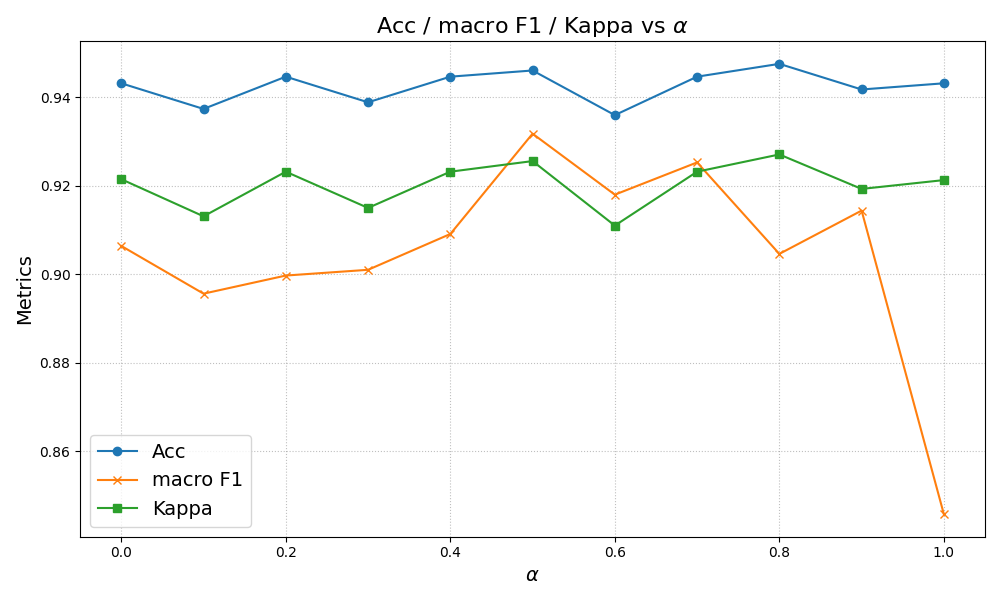
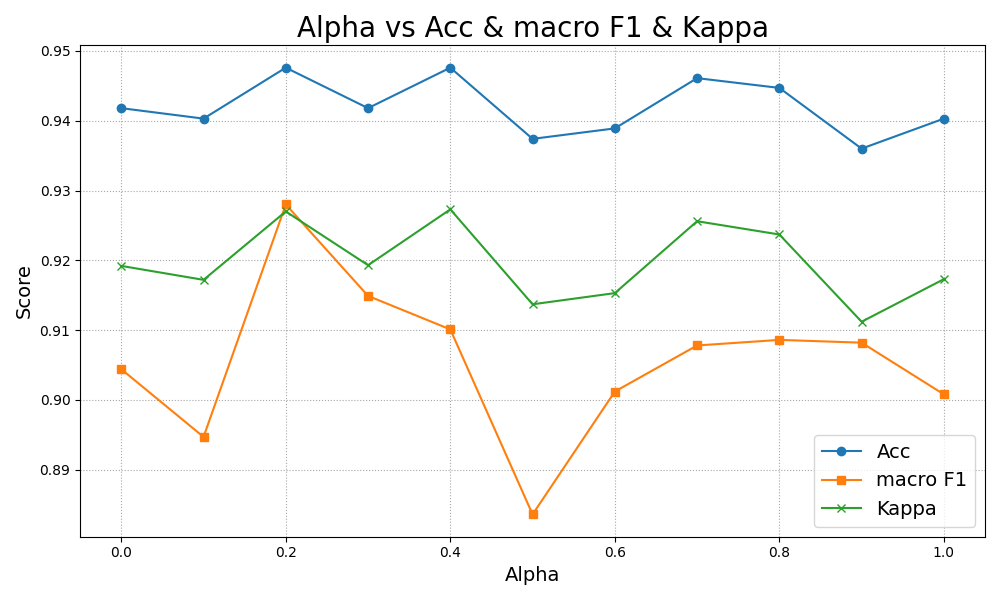
alphaの可視化

diff --git a/Utils/args.py b/Utils/args.py
@@ -10,7 +10,7 @@ def get_args():
     parser.add_argument('--lr',default=1e-4,type=float)
     parser.add_argument('--weight_decay',default=1e-2,type=float)
     parser.add_argument('--batch_size',default=16,type=int)
-    parser.add_argument('--alpha', default=0.5, type=float)
+    parser.add_argument('--alpha', default=0.2, type=float)
     parser.add_argument('--view',default='Top',choices=['Top','Side','Fusion'],type = str)
     parser.add_argument('--model',default='ResNet50',choices = ['ResNet50','ViT','HCTNet','MidNet'],type = str)
     parser.add_argument('--format',default='{l_bar}{bar:60} | {n_fmt:>2} / {total_fmt:>2} [{elapsed} < {remaining} , {rate_fmt}] {postfix}',type = str)

diff --git a/README.md b/README.md
@@ -81,15 +81,15 @@
     <tr>
       <td rowspan="3">Fusion</td>
       <td>ResNet50</td>
-      <td>0.0285 ± 0.0006</td>
-      <td>0.9479 ± 0.0090</td>
-      <td>0.8715 ± 0.0343</td>
+      <td>0.0553 ± 0.0015</td>
+      <td>0.9496 ± 0.0065</td>
+      <td>0.8996 ± 0.0272</td>
     </tr>
     <tr>
       <td>ViT</td>
-      <td>0.0284 ± 0.0007</td>
-      <td>0.9467 ± 0.0091</td>
-      <td>0.8873 ± 0.0367</td>
+      <td>0.0560 ± 0.0014</td>
+      <td>0.9438 ± 0.0088</td>
+      <td>0.8758 ± 0.0506</td>
     </tr>
     <tr>
       <td>HCTNet</td>
